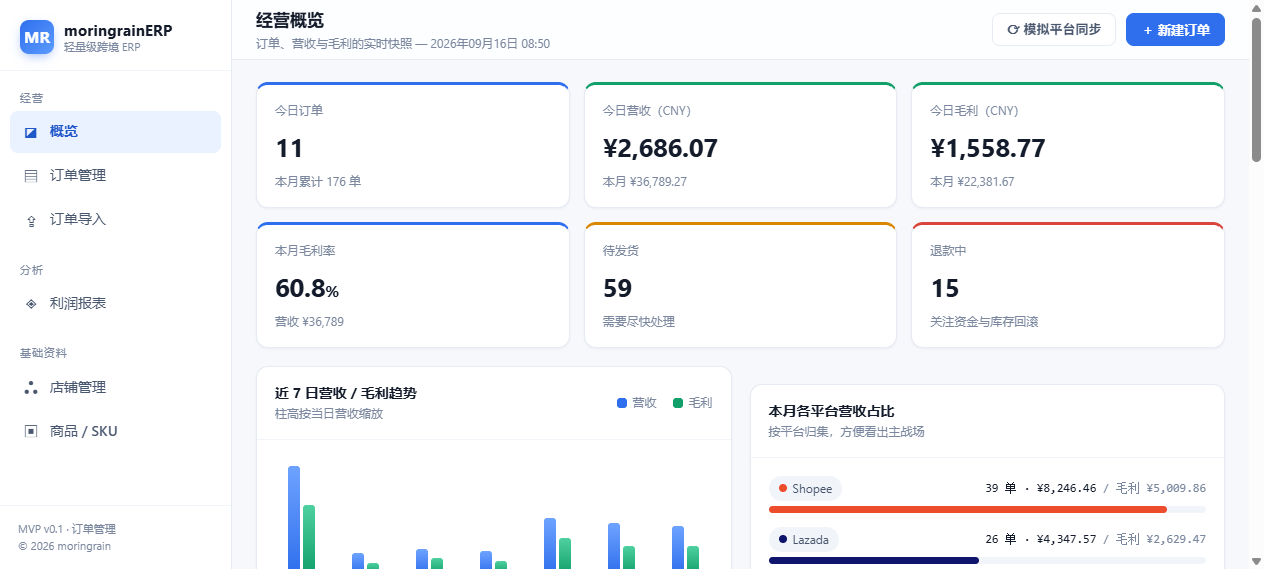
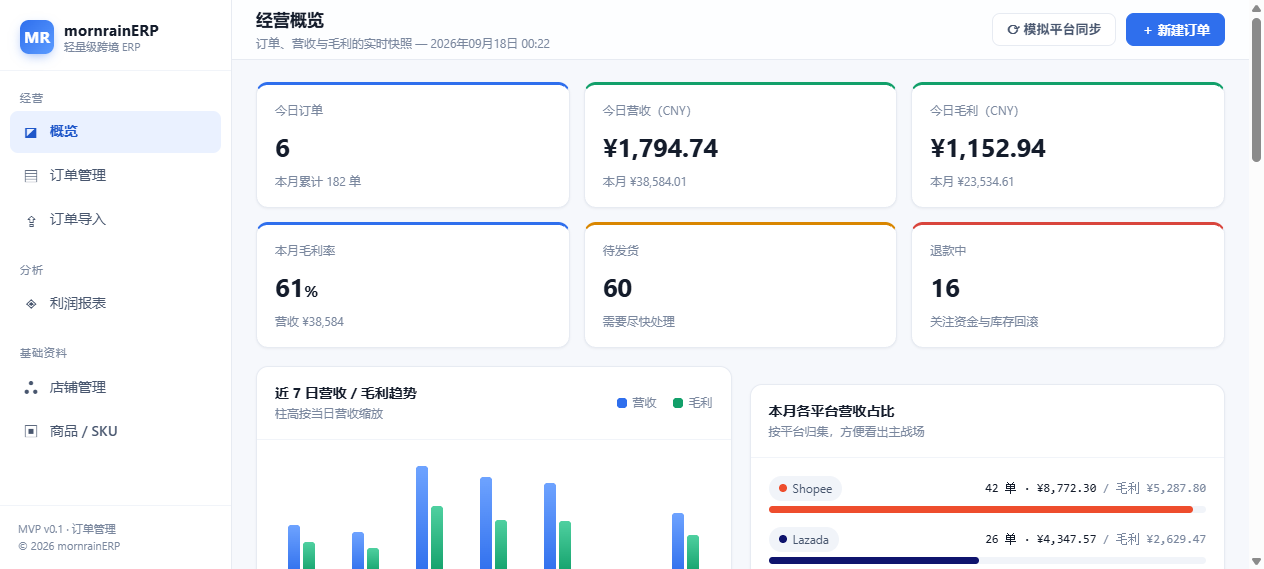
refactor: 品牌标识统一为 mornrainERP
统一修正项目内所有旧拼写的名称、标识、文案与配置项：

代码与配置
- 产品名统一为 mornrainERP（页面标题、品牌区、页脚署名、类注释）
- composer 包名统一为 mornrain/mornrainerp
- APP_NAME / .env.example、CSV 导出文件名前缀、路由文件头注释
- 文档 README 标题、目录结构树、cd 命令、DB_DATABASE 生产示例
- 本地项目目录同步重命名为 mornrainerp/

刻意保留
- README 中第三方参考站（晨雨ERP 官网）的原始域名引用，
  它是本项目当初的调研出处，并非本项目标识，故不做替换

功能验证（改动后实测）
- 7 个路由全部 200，页面与标题品牌文案零残留
- 利润核算抽样 350.57 / 126.80 / 223.77 / 63.83% 正常
- 状态流转、CSV 导入（自动建店+算利润）、
  CSV 导出（文件名前缀 mornrainERP）、模拟平台同步均正常

diff --git a/public/css/app.css b/public/css/app.css
@@ -1,5 +1,5 @@
 /* ==========================================================================
-   moringrainERP · 轻量级跨境 ERP 后台样式
+   mornrainERP · 轻量级跨境 ERP 后台样式
    纯本地 CSS，不依赖任何外部 CDN / 框架
    ========================================================================== */
 

diff --git a/resources/views/layouts/app.blade.php b/resources/views/layouts/app.blade.php
@@ -4,7 +4,7 @@
     <meta charset="utf-8">
     <meta name="viewport" content="width=device-width, initial-scale=1">
     <meta name="csrf-token" content="{{ csrf_token() }}">
-    <title>@yield('title', '概览') · moringrainERP</title>
+    <title>@yield('title', '概览') · mornrainERP</title>
     <link rel="stylesheet" href="{{ asset('css/app.css') }}">
 </head>
 <body>
@@ -13,7 +13,7 @@
         <div class="brand">
             <div class="brand-logo">MR</div>
             <div class="brand-text">
-                <span class="brand-name">moringrainERP</span>
+                <span class="brand-name">mornrainERP</span>
                 <span class="brand-sub">轻量级跨境 ERP</span>
             </div>
         </div>
@@ -50,7 +50,7 @@
 
         <div class="sidebar-foot">
             MVP v0.1 · 订单管理<br>
-            © {{ date('Y') }} moringrain
+            © {{ date('Y') }} mornrainERP
         </div>
     </aside>
 

diff --git a/app/Http/Controllers/OrderController.php b/app/Http/Controllers/OrderController.php
@@ -444,7 +444,7 @@ class OrderController extends Controller
             ->betweenDates($filters['date_from'] ?? null, $filters['date_to'] ?? null)
             ->orderByDesc('created_at');
 
-        $filename = 'moringrainERP-orders-' . now()->format('Ymd-His') . '.csv';
+        $filename = 'mornrainERP-orders-' . now()->format('Ymd-His') . '.csv';
 
         return response()->streamDownload(function () use ($query) {
             $out = fopen('php://output', 'w');

diff --git a/app/Support/ProfitCalculator.php b/app/Support/ProfitCalculator.php
@@ -5,7 +5,7 @@ namespace App\Support;
 use App\Models\Order;
 
 /**
- * 利润核算核心 —— moringrainERP 的差异化能力
+ * 利润核算核心 —— mornrainERP 的差异化能力
  *
  * 营收(CNY) = (商品金额 + 运费收入 - 平台补贴 - 平台佣金 - 支付手续费 - 退款) × 汇率
  * 成本(CNY) = 商品采购成本 + 物流成本 + 广告分摊 + 其他成本

diff --git a/routes/web.php b/routes/web.php
@@ -9,7 +9,7 @@ use Illuminate\Support\Facades\Route;
 
 /*
 |--------------------------------------------------------------------------
-| moringrainERP 路由
+| mornrainERP 路由
 |--------------------------------------------------------------------------
 | 轻量级跨境电商 ERP · 订单管理 MVP
 */

diff --git a/database/seeders/DatabaseSeeder.php b/database/seeders/DatabaseSeeder.php
@@ -7,7 +7,7 @@ use Illuminate\Database\Seeder;
 class DatabaseSeeder extends Seeder
 {
     /**
-     * moringrainERP 演示数据
+     * mornrainERP 演示数据
      */
     public function run(): void
     {

diff --git a/README.md b/README.md
@@ -1,4 +1,4 @@
-# moringrainERP
+# mornrainERP
 
 > 轻量级跨境电商 ERP · 订单管理 MVP
 > 对标 [moringrain.com](https://www.moringrain.com/) 的产品定位：**让每一单利润算得清**
@@ -53,7 +53,7 @@
 ## 三、目录结构
 
 ```
-moringrainerp/
+mornrainerp/
 ├── app/
 │   ├── Enums/
 │   │   ├── OrderStatus.php          # 订单状态机（含流转规则、UI 配色）
@@ -170,7 +170,7 @@ Composer  ：C:\Users\linga\.workbuddy\binaries\composer\composer.phar
 启动：
 
 ```bash
-cd moringrainerp
+cd mornrainerp
 
 # 首次：建库 + 迁移 + 灌演示数据（180 张订单 + 355 条明细 + 70 条物流）
 php artisan migrate --force
@@ -195,7 +195,7 @@ php artisan serve --host=127.0.0.1 --port=8000
 # 1) 切 MySQL（.env）
 DB_CONNECTION=mysql
 DB_HOST=127.0.0.1
-DB_DATABASE=moringrainerp
+DB_DATABASE=mornrainerp
 DB_USERNAME=xxx
 DB_PASSWORD=xxx
 
